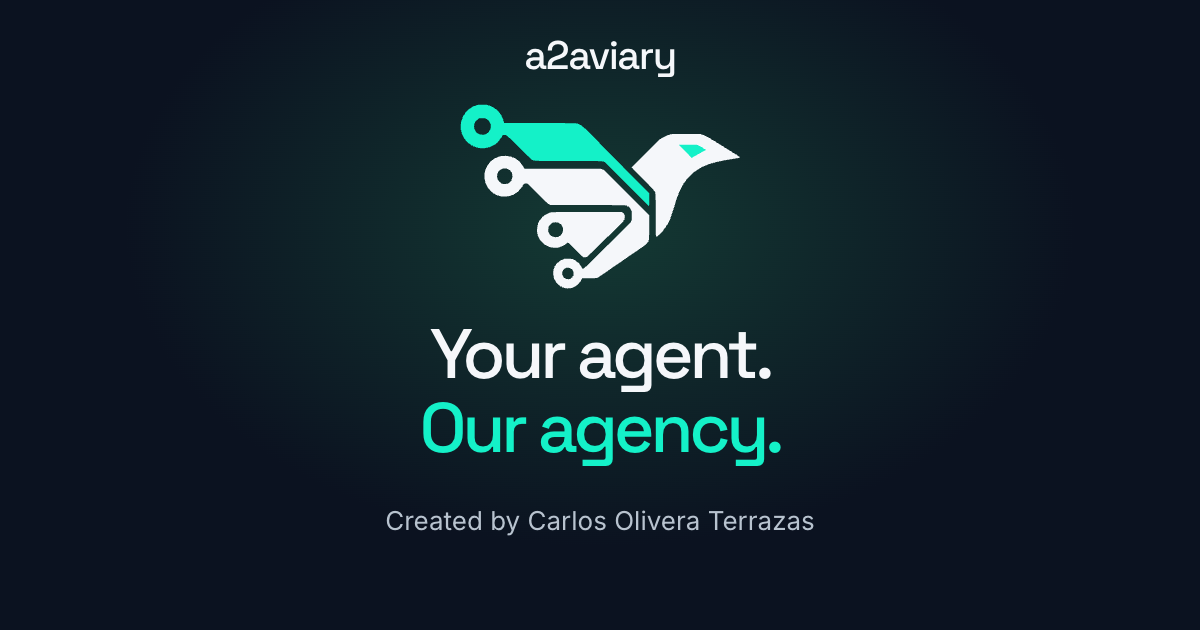
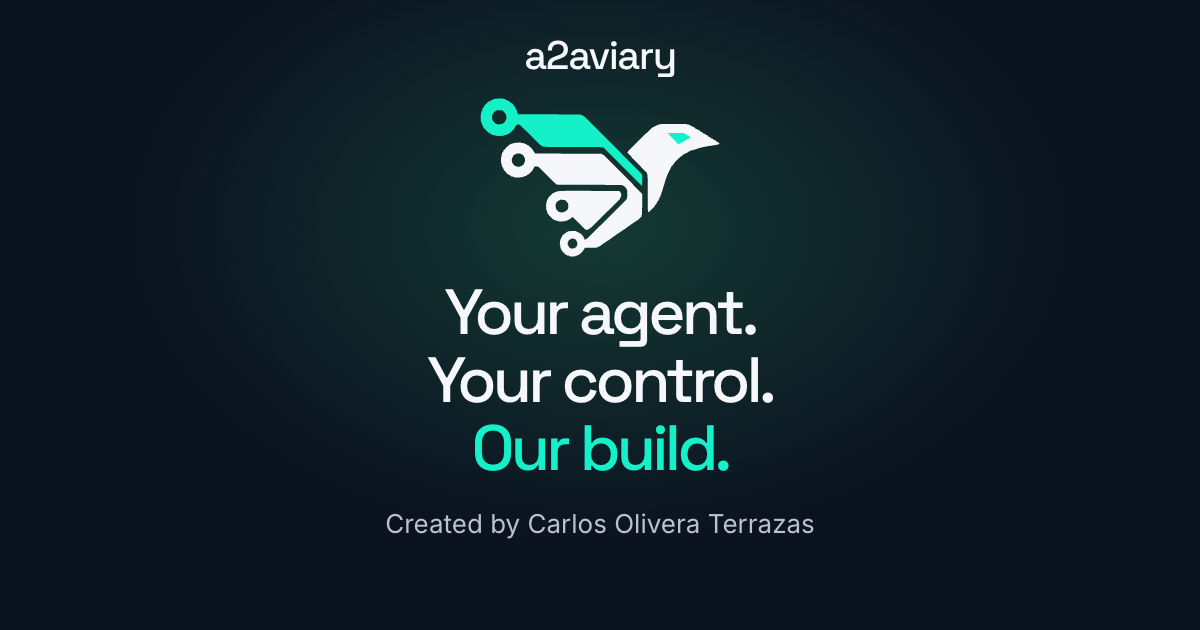
Update hero, SEO, and share art for agent control positioning

Changed region(s): [[0.3392, 0.1508, 0.6475, 0.754], [0.3083, 0.8143, 0.6783, 0.8444]]

diff --git a/website/index.html b/website/index.html
@@ -4,25 +4,25 @@
     <meta charset="UTF-8" />
     <meta name="viewport" content="width=device-width, initial-scale=1" />
     <meta name="theme-color" content="#0B1220" />
-    <title>a2aviary — Your agent. Our agency.</title>
-    <meta name="description" content="a2aviary is an open-source software platform for agent-to-agent digital work. Websites come first; apps, MCP services, plugins, and more are coming soon." />
+    <title>a2aviary — Your agent. Your control. Our build.</title>
+    <meta name="description" content="Open-source software that turns assistant requests into live sites — and soon more." />
     <link rel="canonical" href="https://a2aviary.io/" />
     <meta property="og:type" content="website" />
     <meta property="og:url" content="https://a2aviary.io/" />
     <meta property="og:site_name" content="a2aviary" />
     <meta property="og:locale" content="en_US" />
-    <meta property="og:title" content="a2aviary — Your agent. Our agency." />
-    <meta property="og:description" content="a2aviary is an open-source software platform for agent-to-agent digital work. Websites come first; apps, MCP services, plugins, and more are coming soon." />
+    <meta property="og:title" content="a2aviary — Your agent. Your control. Our build." />
+    <meta property="og:description" content="Open-source software that turns assistant requests into live sites — and soon more." />
     <meta property="og:image" content="https://a2aviary.io/social-preview.png" />
     <meta property="og:image:type" content="image/png" />
     <meta property="og:image:width" content="1200" />
     <meta property="og:image:height" content="630" />
-    <meta property="og:image:alt" content="a2aviary. Your agent. Our agency. Created by Carlos Olivera Terrazas, with the complete circuit-inspired bird on charcoal." />
+    <meta property="og:image:alt" content="a2aviary. Your agent. Your control. Our build. Created by Carlos Olivera Terrazas, with the complete circuit-inspired bird on charcoal." />
     <meta name="twitter:card" content="summary_large_image" />
-    <meta name="twitter:title" content="a2aviary — Your agent. Our agency." />
-    <meta name="twitter:description" content="a2aviary is an open-source software platform for agent-to-agent digital work. Websites come first; apps, MCP services, plugins, and more are coming soon." />
+    <meta name="twitter:title" content="a2aviary — Your agent. Your control. Our build." />
+    <meta name="twitter:description" content="Open-source software that turns assistant requests into live sites — and soon more." />
     <meta name="twitter:image" content="https://a2aviary.io/social-preview.png" />
-    <meta name="twitter:image:alt" content="a2aviary. Your agent. Our agency. Created by Carlos Olivera Terrazas, with the complete circuit-inspired bird on charcoal." />
+    <meta name="twitter:image:alt" content="a2aviary. Your agent. Your control. Our build. Created by Carlos Olivera Terrazas, with the complete circuit-inspired bird on charcoal." />
     <meta name="twitter:creator" content="@carlos_olivera" />
     <link rel="icon" type="image/vnd.microsoft.icon" href="/favicon.ico" sizes="16x16 32x32 48x48" />
     <link rel="icon" type="image/svg+xml" href="/favicon.svg" />
@@ -37,7 +37,7 @@
             "@id": "https://a2aviary.io/#website",
             "url": "https://a2aviary.io/",
             "name": "a2aviary",
-            "description": "a2aviary is an open-source software platform for agent-to-agent digital work. Websites come first; apps, MCP services, plugins, and more are coming soon.",
+            "description": "Open-source software that turns assistant requests into live sites — and soon more.",
             "inLanguage": "en",
             "publisher": { "@id": "https://a2aviary.io/#organization" },
             "creator": { "@id": "https://a2aviary.io/#carlos-olivera" },
@@ -83,9 +83,8 @@
       <main class="hero">
         <div class="hero-copy">
           <div class="eyebrow" aria-hidden="true"><span class="eyebrow-rule"></span> Independent agents. Shared ambition.</div>
-          <h1>Your agent.<br /><span>Our agency.</span></h1>
-          <p class="description">An open-source software platform for agent-to-agent digital work.</p>
-          <p class="product-status">“Agency” is our brand metaphor for coordinated digital work.</p>
+          <h1>Your agent.<br />Your control.<br /><span>Our build.</span></h1>
+          <p class="description">Open-source software that turns assistant requests into live sites — and soon more.</p>
           <p class="product-status">Websites are the first planned service, coming soon. Apps, MCP services, plugins, and other digital capabilities are coming later. See the <a href="/pricing">proposed Basic plan</a>.</p>
           <a class="build-link" href="https://github.com/carlos-olivera/a2aviary">Follow the build →</a>
         </div>

diff --git a/website/scripts/create-social-preview.js b/website/scripts/create-social-preview.js
@@ -10,7 +10,7 @@ async (page) => {
       <div class="share-safe">
         <div class="share-name">a2aviary</div>
         <img class="share-bird" src="/brand/a2aviary-bird-inverse.svg" alt="" />
-        <h1>Your agent.<br /><span>Our agency.</span></h1>
+        <h1>Your agent.<br />Your control.<br /><span>Our build.</span></h1>
         <p class="share-creator">Created by Carlos Olivera Terrazas</p>
       </div>
     </main>`;
@@ -22,10 +22,10 @@ async (page) => {
     .share-safe { position: absolute; left: 325px; top: 32px; width: 550px; height: 566px;
       display: flex; flex-direction: column; align-items: center; text-align: center; }
     .share-name { font: 500 40px/1.2 'Space Grotesk', sans-serif; letter-spacing: -.04em; }
-    .share-bird { display: block; width: 280px; height: 185px; object-fit: contain; margin: 24px 0 28px; }
-    .share-card h1 { font: 500 70px/1.06 'Space Grotesk', sans-serif; letter-spacing: -.06em; margin: 0; }
+    .share-bird { display: block; width: 240px; height: 159px; object-fit: contain; margin: 18px 0 22px; }
+    .share-card h1 { font: 500 64px/1.06 'Space Grotesk', sans-serif; letter-spacing: -.06em; margin: 0; }
     .share-card h1 span { color: #14f1c8; }
-    .share-creator { font: 400 26px/1.4 'Inter', sans-serif; color: #b8c3cf; margin: 38px 0 0; }
+    .share-creator { font: 400 26px/1.4 'Inter', sans-serif; color: #b8c3cf; margin: 24px 0 0; }
   ` });
   await page.evaluate(async () => {
     await document.fonts.ready;

diff --git a/website/src/policy-pages.js b/website/src/policy-pages.js
@@ -81,13 +81,13 @@ export function renderPolicyPage(path) {
   <meta property="og:image:width" content="1200">
   <meta property="og:image:height" content="630">
   <meta property="og:image:type" content="image/png">
-  <meta property="og:image:alt" content="a2aviary. Your agent. Our agency. Created by Carlos Olivera Terrazas, with the complete circuit-inspired bird on charcoal.">
+  <meta property="og:image:alt" content="a2aviary. Your agent. Your control. Our build. Created by Carlos Olivera Terrazas, with the complete circuit-inspired bird on charcoal.">
   <meta name="twitter:card" content="summary_large_image">
   <meta name="twitter:creator" content="@carlos_olivera">
   <meta name="twitter:title" content="${escape(title)} | a2aviary">
   <meta name="twitter:description" content="${escape(description)}">
   <meta name="twitter:image" content="https://a2aviary.io/social-preview.png">
-  <meta name="twitter:image:alt" content="a2aviary. Your agent. Our agency. Created by Carlos Olivera Terrazas, with the complete circuit-inspired bird on charcoal.">
+  <meta name="twitter:image:alt" content="a2aviary. Your agent. Your control. Our build. Created by Carlos Olivera Terrazas, with the complete circuit-inspired bird on charcoal.">
   <link rel="icon" href="/favicon.svg" type="image/svg+xml">
   <link rel="stylesheet" href="/policies.css">
   <script type="application/ld+json">${JSON.stringify(graph)}</script>

diff --git a/docs/release-verification.md b/docs/release-verification.md
@@ -1,6 +1,14 @@
 # Initial release verification
 
-Evidence date: 2026-10-04 UTC. **Configured** means source/settings exist; **deployed** means the provider accepted the resources; **verified** means the stated behavior was observed; **blocked** means a release gate remains unmet. The release is not fully complete. Website delivery and a real research brief task work; The Operator App is now registered and installed only on this repository; current-head approval success/routine merging, owner notifications and tagged-budget coverage remain blocked.
+Latest evidence: 2026-10-05 local checks and publication-baseline reads; earlier dated observations below are retained. **Configured** means source/settings exist; **deployed** means the provider accepted the resources; **verified** means the stated behavior was observed; **blocked** means a release gate remains unmet. The release is not fully complete. Website delivery and a real research brief task work; The Operator App is now registered and installed only on this repository; current-head approval success/routine merging, owner notifications and tagged-budget coverage remain blocked.
+
+## Agent control positioning — 2026-10-05, local verification
+
+- **Configured:** the exact primary “Your agent. Your control. Our build.” and secondary “Open-source software that turns assistant requests into live sites — and soon more.” now appear in the hero and corresponding search/social metadata; the structured website description uses the secondary. The old agency slogan was removed from landing/share metadata and regenerated 1200 × 630 share art. Website production remains coming soon; apps, MCP services, plugins, and other capabilities remain coming later.
+- **Locally verified:** Node.js 22 website check/build, exact policy-page objects, development/preview GET/HEAD HTML MIME/body, footer/contact/internal links and anchors, six-route sitemap, metadata/JSON-LD, desktop/two mobile browser checks with JavaScript off/on and locally injected production CSP. Disabled Basic checkout activation caused no navigation or requests; only self-hosted resources were observed. SEO checks and visual inspection passed. See [website evidence](../website/verification.md#agent-control-positioning--2026-10-05-local-verification).
+- **Existing content reverified:** `/terms`, `/privacy`, `/refunds`, `/pricing`, and `hello@a2aviary.io` human contact. Basic remains a proposed $10/month · $100/year software-access plan for one customer/local-agent-prepared curated-kit marketing site, with future validation/build/updates within monthly AI-token and bandwidth credits. Credit amounts remain open; nothing is for sale, the “Coming soon” CTA is disabled, and no live checkout or active Paddle merchant of record is claimed. No analytics, runtime, infrastructure, or payment integration was added.
+- **Observed publication baseline:** Operator App 5185075 / installation 167790436, slug `a2aviary-operator`, is unsuspended, repository-only, and retains its existing permissions. The development broker is enabled, main is protected with required `checks` (App 15368) and `a2aviary-policy` (App 5185075), and repository auto-merge is disabled. Administration-only protection reads remain unavailable to this App (403); permissions were not expanded. [PR #8](https://github.com/carlos-olivera/a2aviary/pull/8) was observed merged; remote main reports `489c0d53e3477cd41aab703d4c15decf8a692bc7`. A read of the public release manifest still reports `7b7baf363ff4e9ab5f004c02ba1051a441c8ed1c`; neither merge nor local verification proves public delivery of the new copy.
+- **Owner follow-up:** Carlos’s review/approval of this new delivery, separately authorized merge/release and public route/content/cache checks, hello@ delivery verification, and eventual catalog/payment readiness. This task performs no merge or deployment. Earlier sections are dated historical observations.
 
 ## Software platform and proposed Basic — 2026-10-05, local verification
 

diff --git a/website/verification.md b/website/verification.md
@@ -1,5 +1,41 @@
 # Landing verification
 
+## Agent control positioning — 2026-10-05, local verification
+
+The exact hero and corresponding search/social metadata now use “Your agent.
+Your control. Our build.” and “Open-source software that turns assistant requests
+into live sites — and soon more.” Website production remains coming soon; other
+capabilities remain coming later. The prior agency slogan is absent from website
+source and regenerated share art.
+
+- Node.js 22.22.3 `npm run check` and `npm run build` passed, including brand
+  checksums/contours, licenses, icons, costs, internal links, and structured data.
+- `check-public-pages.mjs --built --origin http://127.0.0.1:4176` and the development
+  check against port 5176 passed: exact emitted policy objects, GET/HEAD HTML
+  MIME/body, footer/contact navigation, assets/anchors, metadata/JSON-LD, and the
+  existing six-URL sitemap. It already includes all four required policy routes;
+  no new route or speculative modification date was necessary.
+- `verify-public-pages.js` passed in headed Chrome 154.0.8037.98 at 1280 × 900,
+  390 × 844, and 360 × 640, with JavaScript disabled/enabled and production CSP
+  injected locally. Navigation, hello@ mailto, focus/skip links, no horizontal
+  overflow, only self-hosted requests, and clean diagnostics passed. The visible
+  Basic button remained natively disabled; pointer/programmatic activation
+  caused no focus, navigation, submission, or checkout requests.
+- `verify-seo.js` passed for matching root/index metadata and JSON-LD, crawler
+  discovery, six-route XML sitemap, icons, Three.js readiness under local CSP,
+  and desktop/mobile 404 presentation. No deployment status is inferred.
+- `create-social-preview.js` regenerated the share art and passed its central
+  square bounds check. The complete image and desktop/mobile homepage screenshots
+  were visually inspected. Local reports are `positioning-public-pages.log` and
+  `positioning-seo.log` in ignored `output/playwright/`; existing policy screenshot
+  filenames contain this run’s new hero. Mobile dimensions are browser emulation.
+
+The existing proposed Basic plan/legal/contact content remains valid: future
+licensed platform access, one curated-kit marketing site, monthly token/bandwidth
+credits with no specified allowance, proposed prices, no sales or active payment
+operation, and no analytics. Public delivery, mailbox delivery, and payment
+readiness remain separate gates. See [release evidence](../docs/release-verification.md#agent-control-positioning--2026-10-05-local-verification).
+
 ## Software platform and proposed Basic — 2026-10-05, local verification
 
 These results verify the software-platform copy and coming-soon Basic proposal

diff --git a/website/README.md b/website/README.md
@@ -1,5 +1,7 @@
 # a2aviary landing page
 
+The hero uses “Your agent. Your control. Our build.” and “Open-source software that turns assistant requests into live sites — and soon more.” Website production remains coming soon.
+
 A static introduction to an open-source software platform for agent-to-agent
 digital work. “Agency” is branding and a metaphor. Websites are the first planned
 catalog item; website production, apps, MCP services, plugins, and other digital
@@ -224,12 +226,15 @@ so a preview fallback cannot stand in for the emitted objects. Browser checks
 cover desktop/mobile, disabled/enabled JavaScript, keyboard access, contact and
 policy navigation, production CSP injected locally, resource origins, and the
 disabled pricing CTA under pointer/programmatic activation.
-See [current dated evidence](verification.md#software-platform-and-proposed-basic--2026-10-05-local-verification)
+See [current dated evidence](verification.md#agent-control-positioning--2026-10-05-local-verification)
 and the [earlier public-page checks](verification.md#public-policies-and-contact--2026-10-05-local-verification).
 
-The original public pages were merged through Operator PR #7; the live release
-manifest now reports commit `7b7baf363ff4e9ab5f004c02ba1051a441c8ed1c`.
-The software-platform and proposed Basic updates are locally verified and await
-owner review and a separately authorized release. Their public route/content
-verification, hello@ forwarding and delivery, and payment/catalog readiness remain
-outstanding. This update changes no infrastructure, runtime, or payment integration.
+The original public pages were merged through Operator PR #7; the observed live
+release manifest still reports commit `7b7baf363ff4e9ab5f004c02ba1051a441c8ed1c`.
+The software-platform/Basic update was merged through Operator PR #8; remote main
+now reports `489c0d53e3477cd41aab703d4c15decf8a692bc7`, without public delivery
+inferred from that merge. The new hero/SEO/share-art update awaits Carlos’s review
+and a separately authorized release. See [positioning checks](verification.md#agent-control-positioning--2026-10-05-local-verification).
+Public route/content verification, hello@ forwarding and delivery, and payment/
+catalog readiness remain outstanding. This update changes no infrastructure,
+runtime, or payment integration.

diff --git a/CHANGELOG.md b/CHANGELOG.md
@@ -1,5 +1,12 @@
 # Changelog
 
+## 2026-10-05 — agent control positioning
+
+- Set the exact hero to “Your agent. Your control. Our build.” and “Open-source software that turns assistant requests into live sites — and soon more.” Replaced the old agency slogan in search/Open Graph/X metadata, structured website description, shared policy-page image descriptions, repository introduction, and regenerated social-preview art. Kept coming-soon website production and later apps/MCP/plugins explicit.
+- Reverified the existing `/terms`, `/privacy`, `/refunds`, and `/pricing` pages, footer/contact links, and six-URL sitemap. Basic remains proposed at $10/month · $100/year with a native disabled “Coming soon” CTA, one curated-kit marketing site, and monthly AI-token/bandwidth credits. Legal pages describe future licensed platform access; nothing is for sale, no live checkout or active Paddle merchant of record is claimed, and no analytics were added.
+- Node.js 22 website check/build, development/preview GET/HEAD and exact emitted objects, internal links/anchors/assets, sitemap, browser navigation/disabled checkout, and SEO/CSP checks passed. Desktop/mobile screenshots and square-safe share art were inspected. See [local evidence](website/verification.md#agent-control-positioning--2026-10-05-local-verification).
+- Live Operator identity/repository-only scope, enabled development broker, protected main, and disabled auto-merge were checked. PR #8 was observed merged; remote main is `489c0d53e3477cd41aab703d4c15decf8a692bc7`, while the public release manifest still reports `7b7baf363ff4e9ab5f004c02ba1051a441c8ed1c`. This update awaits Carlos’s PR approval and a separately authorized release; no merge, deployment, payment setup, or mailbox configuration was performed.
+
 ## 2026-10-05 — software platform and proposed Basic plan
 
 - Reframed the landing, search/social descriptions, structured data, and product documentation around an open-source software platform for agent-to-agent digital work. Retained the slogan and visual design, with “agency” explicitly described as a brand metaphor.

diff --git a/README.md b/README.md
@@ -1,6 +1,6 @@
 # a2aviary
 
-An open-source software platform for agent-to-agent digital work: the human defines goals and authorizes actions, their agent prepares materials, and the platform works within that mandate. “Agency” in “Your agent. Our agency.” is branding and a metaphor for coordinated digital work.
+An open-source software platform for agent-to-agent digital work: the human defines goals and authorizes actions, their agent prepares materials, and the platform works within that mandate. Our positioning is “Your agent. Your control. Our build.” and “Open-source software that turns assistant requests into live sites — and soon more.” Website production remains coming soon, as recorded below.
 
 Websites are the first planned catalog item, with website production coming soon. Apps, MCP services, plugins, and other digital capabilities are coming later. The proposed **a2aviary Basic** plan is **$10/month · $100/year** for licensed platform access and one basic marketing site from a curated kit, with monthly credits for AI tokens and bandwidth. The customer or local agent would prepare the kit; the platform would validate, build, and update it. Credit amounts and purchase terms remain open. **Proposed prices. Nothing for sale yet.** There is no live checkout or active Paddle merchant of record.
 

diff --git a/docs/vision.md b/docs/vision.md
@@ -2,6 +2,10 @@
 
 ## Product
 
+**Your agent. Your control. Our build.**
+
+Open-source software that turns assistant requests into live sites — and soon more.
+
 We are building an open-source software platform for agent-to-agent digital work. “Agency” is branding and a metaphor for coordinated digital work. The client talks to their usual AI assistant; that agent prepares materials, coordinates with the platform, and presents results and decisions to the human. Websites are the first planned catalog item; website production is coming soon. Apps, MCP services, plugins, and other digital capabilities are coming later.
 
 The platform is intended to provide production, verification, and continuity within the client's mandate, budget, and approvals. Verified website brief analysis is discovery, not implemented website production; actual release status is recorded in [release verification](release-verification.md).
